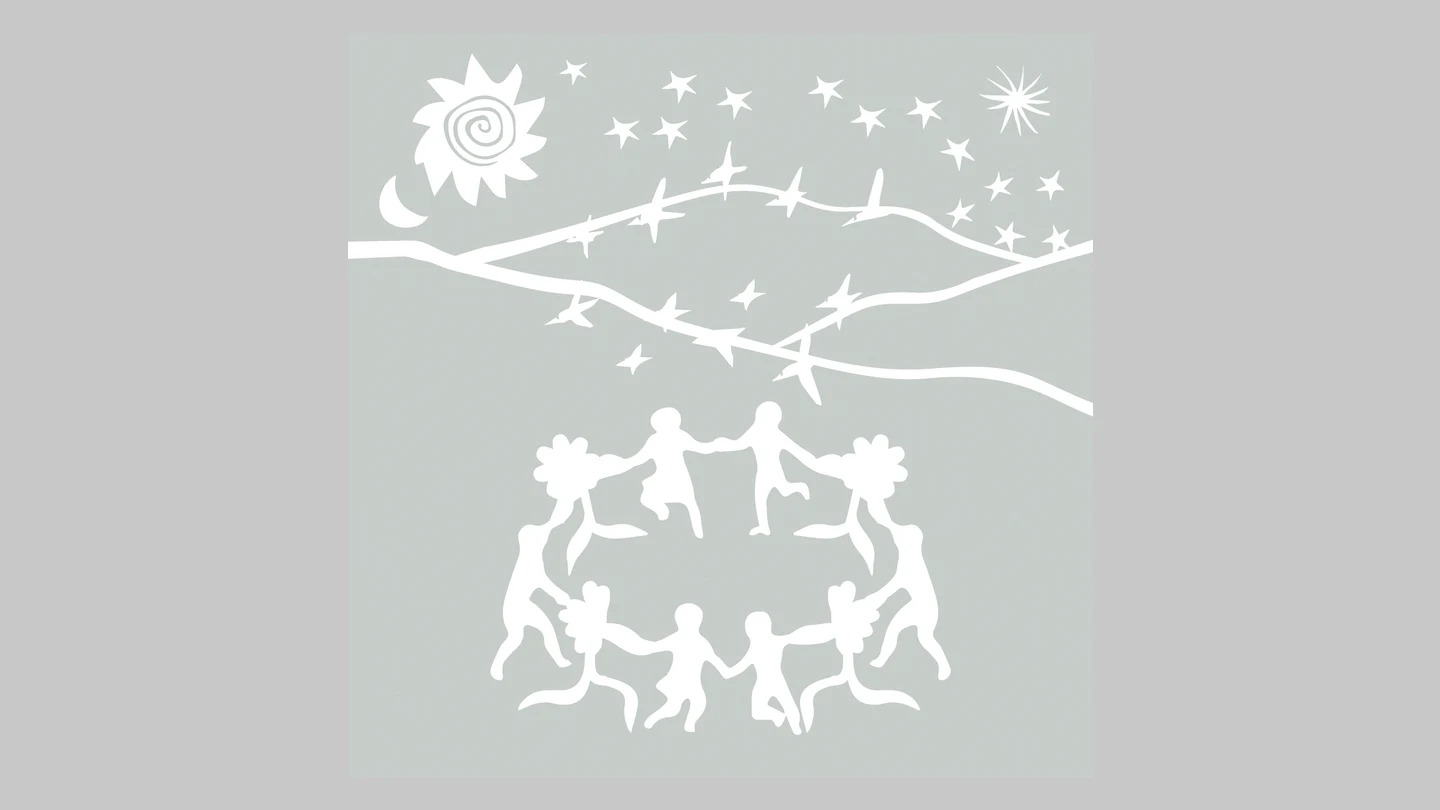
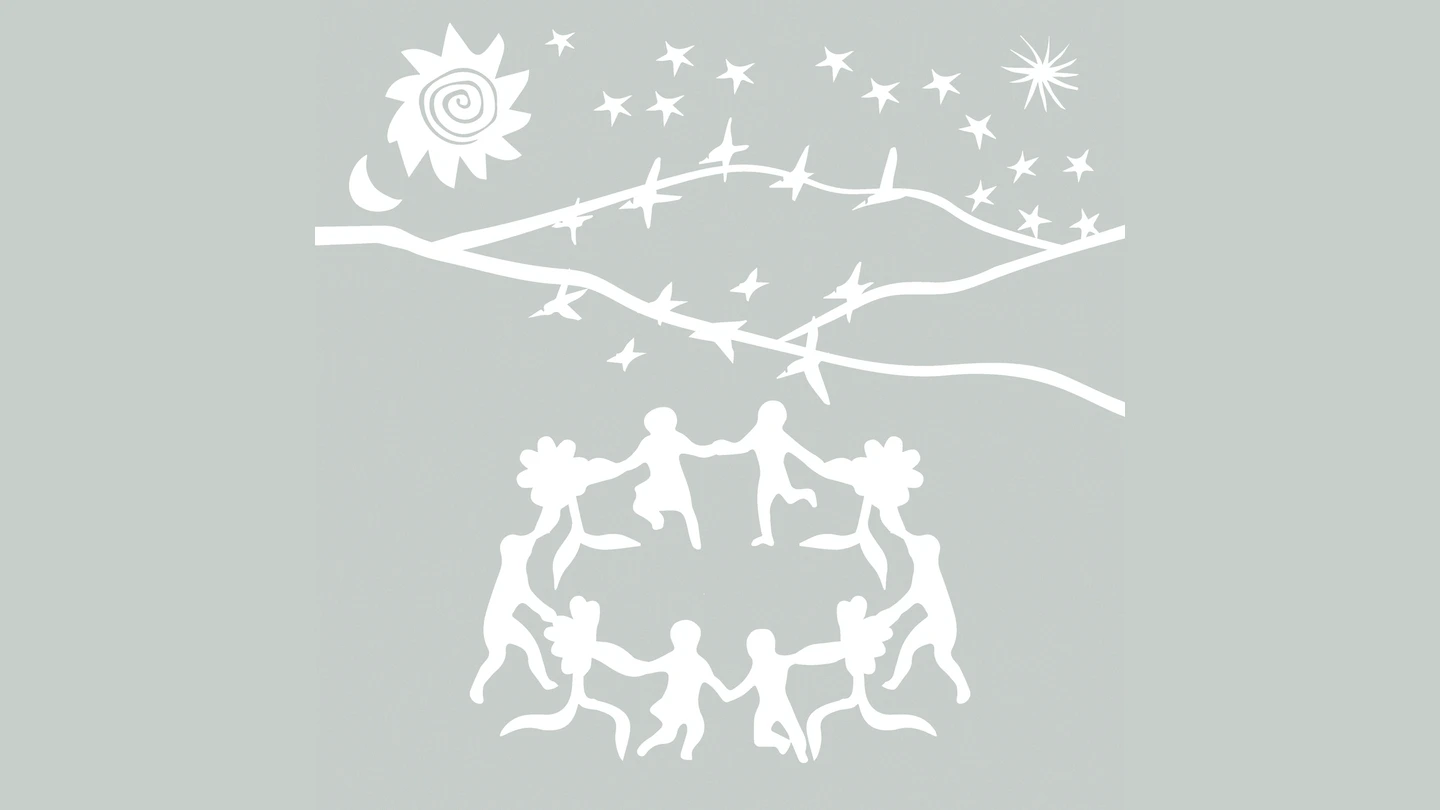
fix(funding): 커버의 회색 판을 없애고 후원 패널을 첫 화면으로 올린다
실제 화면을 찍어 보고 두 가지가 드러났다.

**커버가 회색 판으로 보였다.** 정사각 앨범아트를 16:9로 맞추며 남은 자리를 '대표색'으로
채웠는데, 그 추정값이 중성 회색(#c8c8c8)이라 작품 바탕(#c7ceca)과 색상이 어긋났다.
수치 차는 작아도 하드 엣지에서는 정사각 경계가 그대로 보여, 그림이 아니라 깨진
플레이스홀더처럼 읽혔다. 여백을 작품의 실제 바탕색으로 다시 채워 이음매를 없앴고,
상세 화면에서는 커버를 **정사각으로 잘라** 여백을 아예 안 보이게 했다. 16:9 파일 자체는
목록 카드·OG 이미지가 공유하므로 그대로 둔다.

**첫 화면에 후원 수단이 없었다.** 히어로를 따로 띄우니 화면이 그림과 제목으로만 차고,
진행률·리워드는 스크롤해야 나왔다 — 후원 의사가 가장 높은 순간에 후원할 방법이 화면에
없는 셈이다(직전 구조에는 히어로에 「후원하기」라도 있었으니 후퇴였다). 히어로를 왼쪽
컬럼 안으로 넣어 sticky 패널이 페이지 맨 위부터 시작하게 했다. saf-2026도 리워드 패널이
상단부터 붙어 있다.

검증: 프로덕션 빌드를 로컬에서 띄워 1440·390 두 폭으로 실제 렌더 확인(커버 정사각 240~384px,
aside position:sticky, 리워드 링크 4개, 모달 정상). 로컬 검증에는 VERCEL_ENV=preview가
필요하다 — 없으면 미들웨어가 canonical 호스트로 308해서 라이브 사이트를 보게 된다.

diff --git a/pages/[locale]/funding/[slug]/index.tsx b/pages/[locale]/funding/[slug]/index.tsx
@@ -56,42 +56,51 @@ export default function FundingProjectPage({ project, initialState }: Props) {
         ogImage={project.ogImage ?? project.cover}
         robots={project.hidden ? 'noindex, nofollow' : undefined}
       />
-      <Section className="pb-16 pt-28 md:pb-20 md:pt-36">
-        <ResponsiveImage
-          src={project.cover}
-          alt=""
-          containerClassName="relative block aspect-[16/9] w-full overflow-hidden rounded-2xl shadow-lg"
-          className="object-cover"
-          priority
-        />
-        <div className="mt-8 max-w-3xl">
-          <span className="inline-flex w-fit items-center rounded-full bg-primary/10 px-2.5 py-1 text-xs font-semibold text-primary dark:bg-primary-light/15 dark:text-violet-300">
-            {STATE_LABEL[state]}
-          </span>
-          <h1 className="typo-section-title mt-3">{project.title}</h1>
-          <p className="typo-section-lead mt-3">{project.summary}</p>
-        </div>
-      </Section>
-
       {/*
-        본문(왼쪽)과 후원 패널(오른쪽)을 나란히 둔다. 패널은 데스크톱에서 sticky라, 본문을
-        읽는 내내 모금 현황과 리워드가 화면에 남는다 — 예전엔 진행률이 히어로에만 있어서
-        정작 리워드를 고르는 순간에는 근거가 화면 밖으로 사라졌다.
+        제목·본문(왼쪽)과 후원 패널(오른쪽)을 **페이지 맨 위부터** 나란히 둔다. 히어로를 따로
+        띄우면 첫 화면이 그림과 제목으로만 차고 진행률·리워드는 스크롤해야 나온다 — 후원
+        의사가 가장 높은 순간에 후원할 수단이 화면에 없는 셈이다. 패널은 데스크톱에서
+        sticky라 본문을 읽는 내내 모금 현황과 리워드가 남는다.
       */}
-      <Section spacing="tight" className="pb-28 lg:pb-16">
+      <Section className="pb-28 pt-24 md:pt-28 lg:pb-16">
         <div className="grid items-start gap-10 lg:grid-cols-[minmax(0,1fr)_22rem] lg:gap-12">
           <div className="min-w-0">
-            {statusError && (
-              <p role="alert" className="mb-6 rounded-xl border border-red-200 bg-red-50 p-3 text-sm text-red-700 dark:border-red-900/60 dark:bg-red-950/40 dark:text-red-300">
-                현황을 불러오지 못했습니다. 새로고침해 주세요.
-              </p>
-            )}
-            <article className="prose prose-lg max-w-none dark:prose-invert">
-              <MarkdownRenderer content={project.content} locale="ko" />
-            </article>
-            <div className="mt-12 space-y-8">
-              <BackerNameRoll names={data?.publicBackers ?? []} />
-              <FundingTrustNotice />
+            {/*
+              커버는 목록 카드·OG 이미지와 같은 16:9 파일 하나를 공유하지만, 여기서는
+              **정사각으로 잘라** 쓴다. 원본이 정사각 앨범아트면 16:9 파일의 좌우는 바탕색
+              여백일 뿐이라, 넓게 펴 놓으면 큰 회색 판이 먼저 보이고 그림이 작아진다.
+              가운데를 정사각으로 따면 여백이 통째로 빠져 작품만 남는다.
+            */}
+            <div className="grid items-center gap-6 sm:grid-cols-[minmax(0,15rem)_minmax(0,1fr)] sm:gap-8">
+              <ResponsiveImage
+                src={project.cover}
+                alt=""
+                containerClassName="relative block aspect-square w-full max-w-[15rem] overflow-hidden rounded-2xl shadow-lg sm:max-w-none"
+                className="object-cover"
+                priority
+              />
+              <div>
+                <span className="inline-flex w-fit items-center rounded-full bg-primary/10 px-2.5 py-1 text-xs font-semibold text-primary dark:bg-primary-light/15 dark:text-violet-300">
+                  {STATE_LABEL[state]}
+                </span>
+                <h1 className="typo-card-title mt-3 text-gray-900 dark:text-white">{project.title}</h1>
+                <p className="typo-card-body mt-3">{project.summary}</p>
+              </div>
+            </div>
+
+            <div className="mt-12">
+              {statusError && (
+                <p role="alert" className="mb-6 rounded-xl border border-red-200 bg-red-50 p-3 text-sm text-red-700 dark:border-red-900/60 dark:bg-red-950/40 dark:text-red-300">
+                  현황을 불러오지 못했습니다. 새로고침해 주세요.
+                </p>
+              )}
+              <article className="prose prose-lg max-w-none dark:prose-invert">
+                <MarkdownRenderer content={project.content} locale="ko" />
+              </article>
+              <div className="mt-12 space-y-8">
+                <BackerNameRoll names={data?.publicBackers ?? []} />
+                <FundingTrustNotice />
+              </div>
             </div>
           </div>
 
